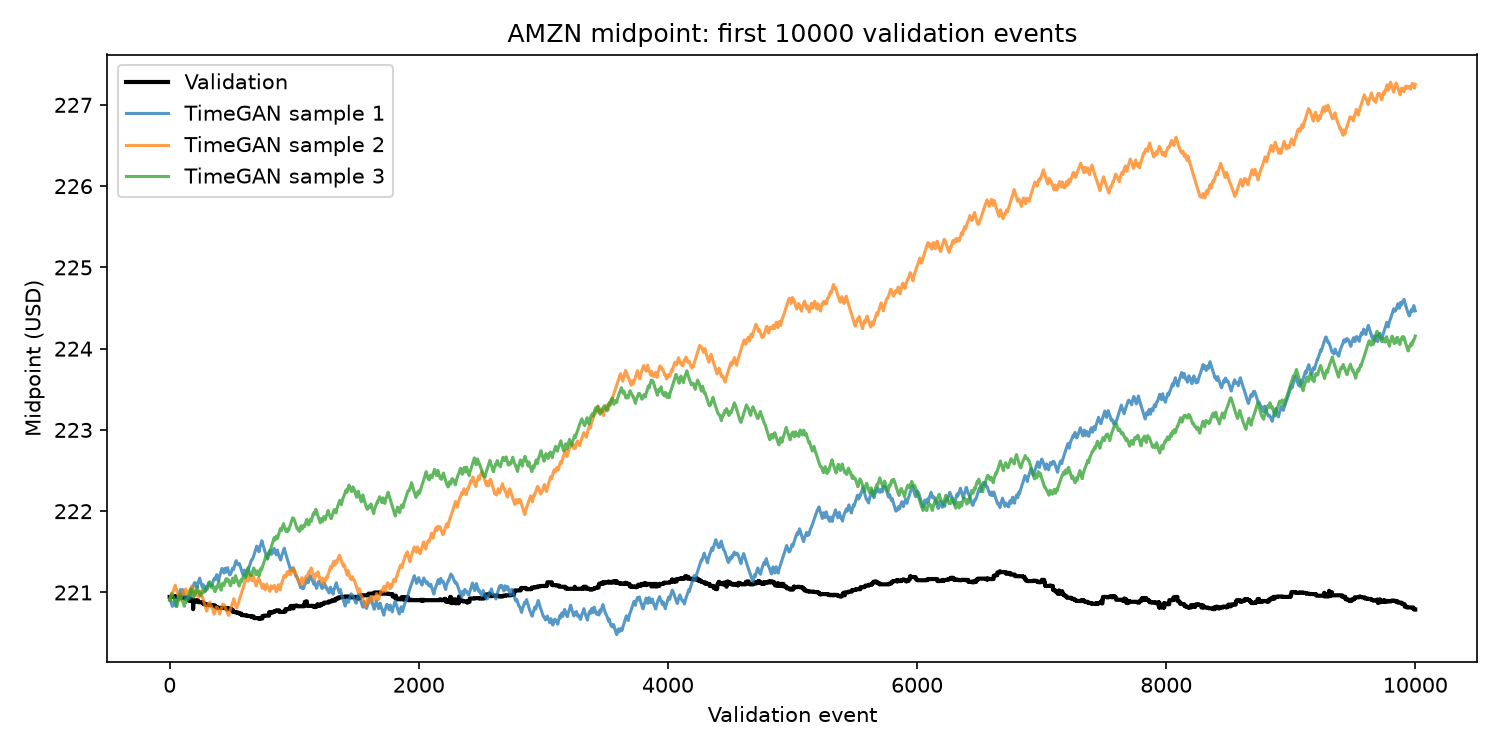
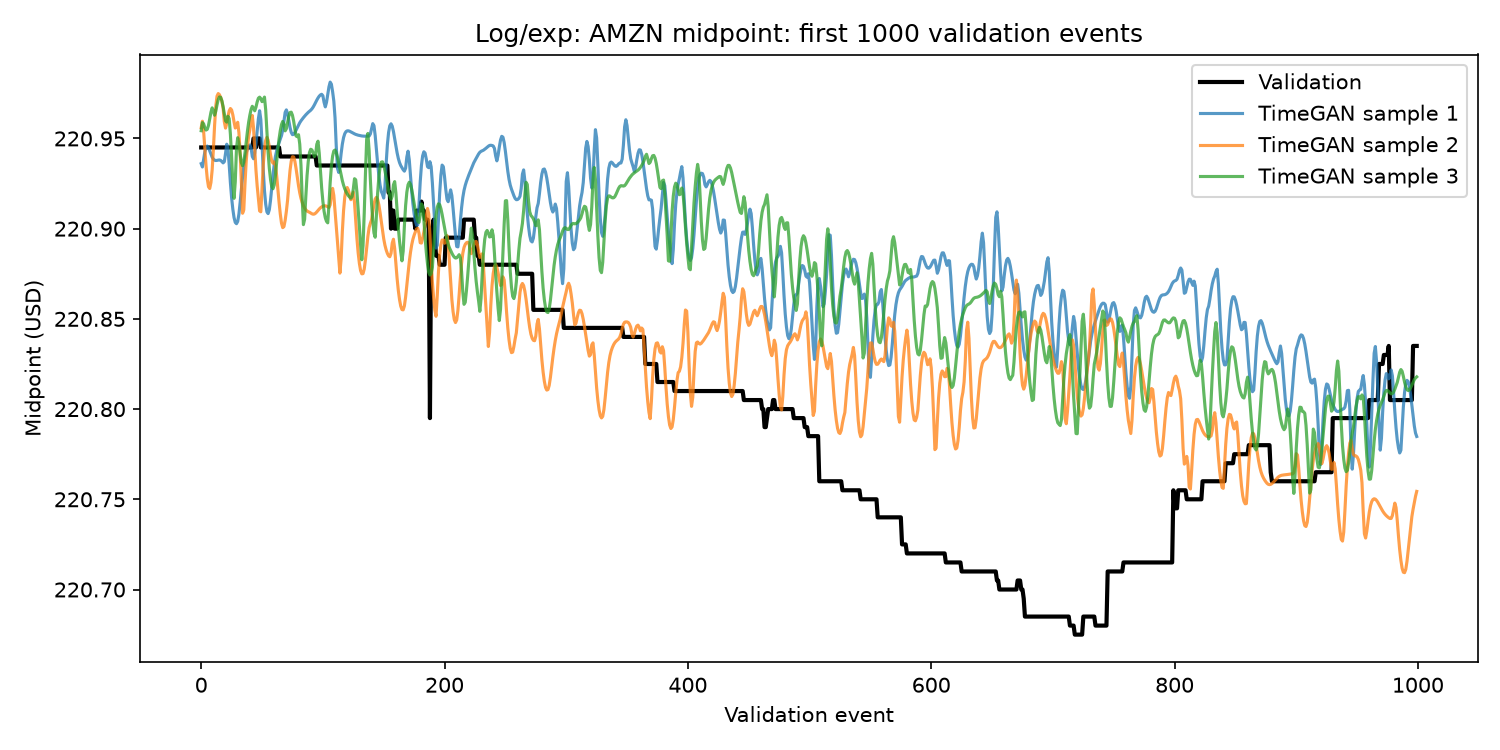
Fix feature encoding discrepency

diff --git a/recognition/dataset.py b/recognition/dataset.py
@@ -50,6 +50,17 @@ def load_dfs() -> tuple[pd.DataFrame, pd.DataFrame]:
     return books, messages
 
 
+def positive_transform(values):
+    """Log coordinates for strictly positive physical features."""
+    return np.log(np.maximum(values, 1e-8))
+
+
+def positive_inverse(values: torch.Tensor) -> torch.Tensor:
+    # Bound only numerical extremes before exponentiating.
+    upper = np.log(torch.finfo(values.dtype).max) - 1
+    return values.clamp(min=np.log(1e-8), max=upper).exp()
+
+
 class LOBSTERLevel10Dataset(Dataset, Sequence):
     _VALIDATION_RATIO: Final[float] = 0.15
 
@@ -57,13 +68,13 @@ class LOBSTERLevel10Dataset(Dataset, Sequence):
         books, messages = load_dfs()
         validation_begin = round((1 - LOBSTERLevel10Dataset._VALIDATION_RATIO) * len(books))
 
-        ask_gaps = [np.log1p(books[f"ASKp{i}"] - books[f"ASKp{i - 1}"]).to_numpy() for i in range(2, 11)]
-        bid_gaps = [np.log1p(books[f"BIDp{i - 1}"] - books[f"BIDp{i}"]).to_numpy() for i in range(2, 11)]
-        spreads = np.log1p(books["ASKp1"] - books["BIDp1"]).to_numpy()
+        ask_gaps = [positive_transform(books[f"ASKp{i}"] - books[f"ASKp{i - 1}"]).to_numpy() for i in range(2, 11)]
+        bid_gaps = [positive_transform(books[f"BIDp{i - 1}"] - books[f"BIDp{i}"]).to_numpy() for i in range(2, 11)]
+        spreads = positive_transform(books["ASKp1"] - books["BIDp1"]).to_numpy()
         midpoints = np.log(0.5 * (books["ASKp1"] + books["BIDp1"])).to_numpy()
 
         self.data = torch.tensor(np.array([midpoints, spreads, *ask_gaps, *bid_gaps])).T
-        self.data = torch.cat((self.data, torch.log1p(torch.from_numpy(books[[c for c in ORDER_BOOK_COLUMNS if "s" in c]].to_numpy(dtype=float)))), dim=1)
+        self.data = torch.cat((self.data, torch.from_numpy(positive_transform(books[[c for c in ORDER_BOOK_COLUMNS if "s" in c]].to_numpy(dtype=float)))), dim=1)
 
         # Use log returns on midpoint prices, instead of the log prices themselves
         returns = self.data[1:, 0] - self.data[:-1, 0]
@@ -73,6 +84,7 @@ class LOBSTERLevel10Dataset(Dataset, Sequence):
 
         train_data = self.data[:validation_begin]
         train_mean, train_std = train_data.mean(0), train_data.std(0).clamp_min(1e-8)
+        self.mean, self.std = train_mean, train_std
 
         if train:
             self.data = (self.data[:validation_begin] - train_mean) / train_std

diff --git a/recognition/predict.py b/recognition/predict.py
@@ -1,9 +1,9 @@
 import matplotlib.pyplot as plt
 import numpy as np
 import torch
-from dataset import LOBSTERLevel10Dataset, load_dfs
+from dataset import LOBSTERLevel10Dataset, load_dfs, positive_inverse
 
-WINDOW_SIZE = 780
+WINDOW_SIZE = 1_000
 WARMUP_SIZE = 512
 
 
@@ -17,14 +17,19 @@ if __name__ == "__main__":
     mean, std = training_returns.mean(), training_returns.std().clamp_min(1e-8)
     model = torch.load("timegan.pth", map_location="cpu", weights_only=False).eval()
     with torch.inference_mode():
-        context = LOBSTERLevel10Dataset(train=True).data[-WARMUP_SIZE:].to(next(model.parameters()))
+        training = LOBSTERLevel10Dataset(train=True)
+        context = training.data[-WARMUP_SIZE:].to(next(model.parameters()))
         context = context.unsqueeze(0).expand(3, -1, -1)
         warmup = context.size(1)
         # Burn in the noise-only generator; real training history warms the supervisor and decoder.
         noise = torch.randn(3, warmup + WINDOW_SIZE, model._latent_dims, dtype=context.dtype)
         synthetic = model.generator(noise)[:, warmup:]
         latent = model.supervisor(torch.cat((model.encode(context), synthetic), dim=1))
-        normalized = model.decode(latent)[:, warmup:, 0].double()
+        decoded = model.decode(latent)[:, warmup:].double()
+        physical = decoded * training.std + training.mean
+        physical[..., 1:] = positive_inverse(physical[..., 1:])
+        assert torch.isfinite(physical).all() and (physical[..., 1:] > 0).all()
+        normalized = decoded[..., 0]
         returns = normalized * std + mean
         # Each sample starts from the last training midpoint; these are independent paths.
         generated = (log_midpoint[split - 1] + returns.cumsum(1)).exp().numpy() / 10000
@@ -36,7 +41,7 @@ if __name__ == "__main__":
     plt.xlabel("Validation event")
     plt.ylabel("Midpoint (USD)")
     plt.ticklabel_format(axis="y", style="plain", useOffset=False)
-    plt.title(f"AMZN midpoint: first {WINDOW_SIZE} validation events")
+    plt.title(f"Log/exp: AMZN midpoint: first {WINDOW_SIZE} validation events")
     plt.legend()
     plt.tight_layout()
     plt.savefig("predictions_closeup.png", dpi=150)

diff --git a/recognition/README.md b/recognition/README.md
@@ -28,7 +28,7 @@ Therefore, our relevant "static" features are already fixed, so there is no need
 
 ## Figure/visualisation
 
-Some long-running predictions from the TimeGAN at the beginning of the validation set.
+Some predictions from the TimeGAN at the beginning of the validation set.
 
 ![Predictions vs validation data](./predictions.png)
 
@@ -158,11 +158,11 @@ A qualitative example of this can be seen with predictions from each model at a 
 As previously mentioned a feature of the dataset is a strong mode of zero (due to midpoint prices remaining stagnant for brief moments in time, while best-ask and best-bid prices contain large volumes).
 The LSTM model, having the ability to directly output values in the feature space, can produce these trends.
 
-TimeGAN close-up predictions:
+TimeGAN predictions:
 
-![TimeGAN predictions close-up](./predictions_closeup.png)
+![TimeGAN predictions close-up](./predictions.png)
 
-LSTM close-up predictions:
+LSTM predictions:
 
 ![LSTM predictions close-up](./lstm_predictions.png)
 
